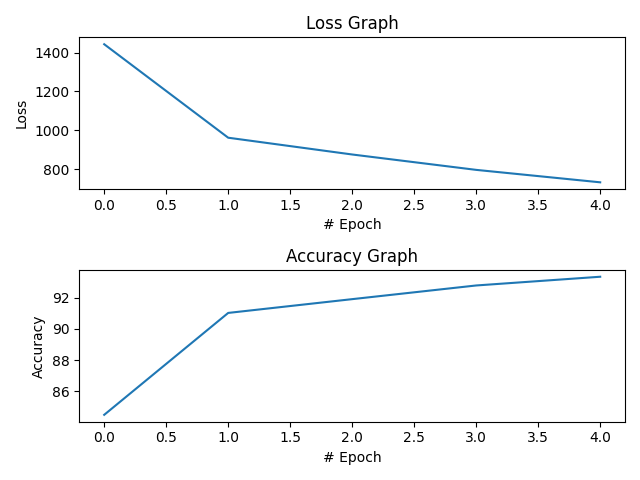
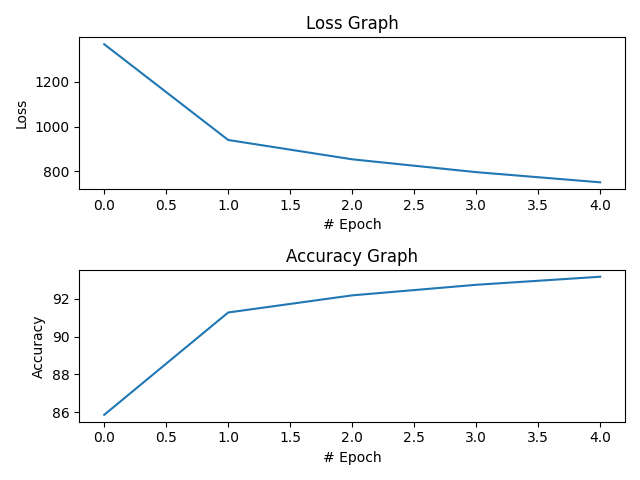
bias 초기화 zero 대신 random으로 변경

diff --git a/project3_1.py b/project3_1.py
@@ -24,10 +24,12 @@ class MLP():
         self.outputLsize = outputLsize
         self.learning_rate = learning_rate
         # initialize weights and biases
-        self.w1 = 0.0001 * np.random.randn(inputLsize, hiddenLsize)
-        self.b1 = np.zeros(hiddenLsize)
-        self.w2 = 0.0001 * np.random.randn(hiddenLsize, outputLsize)
-        self.b2 = np.zeros(outputLsize)
+        self.w1 = 0.001 * np.random.randn(inputLsize, hiddenLsize)
+        # self.b1 = np.zeros(hiddenLsize)
+        self.b1 = 0.000001 * np.random.randn(hiddenLsize)
+        self.w2 = 0.001 * np.random.randn(hiddenLsize, outputLsize)
+        # self.b2 = np.zeros(outputLsize)
+        self.b2 = 0.000001 * np.random.randn(outputLsize)
         # arrays to store loss and accuracy
         self.lossArr = []
         self.accuracyArr = []
